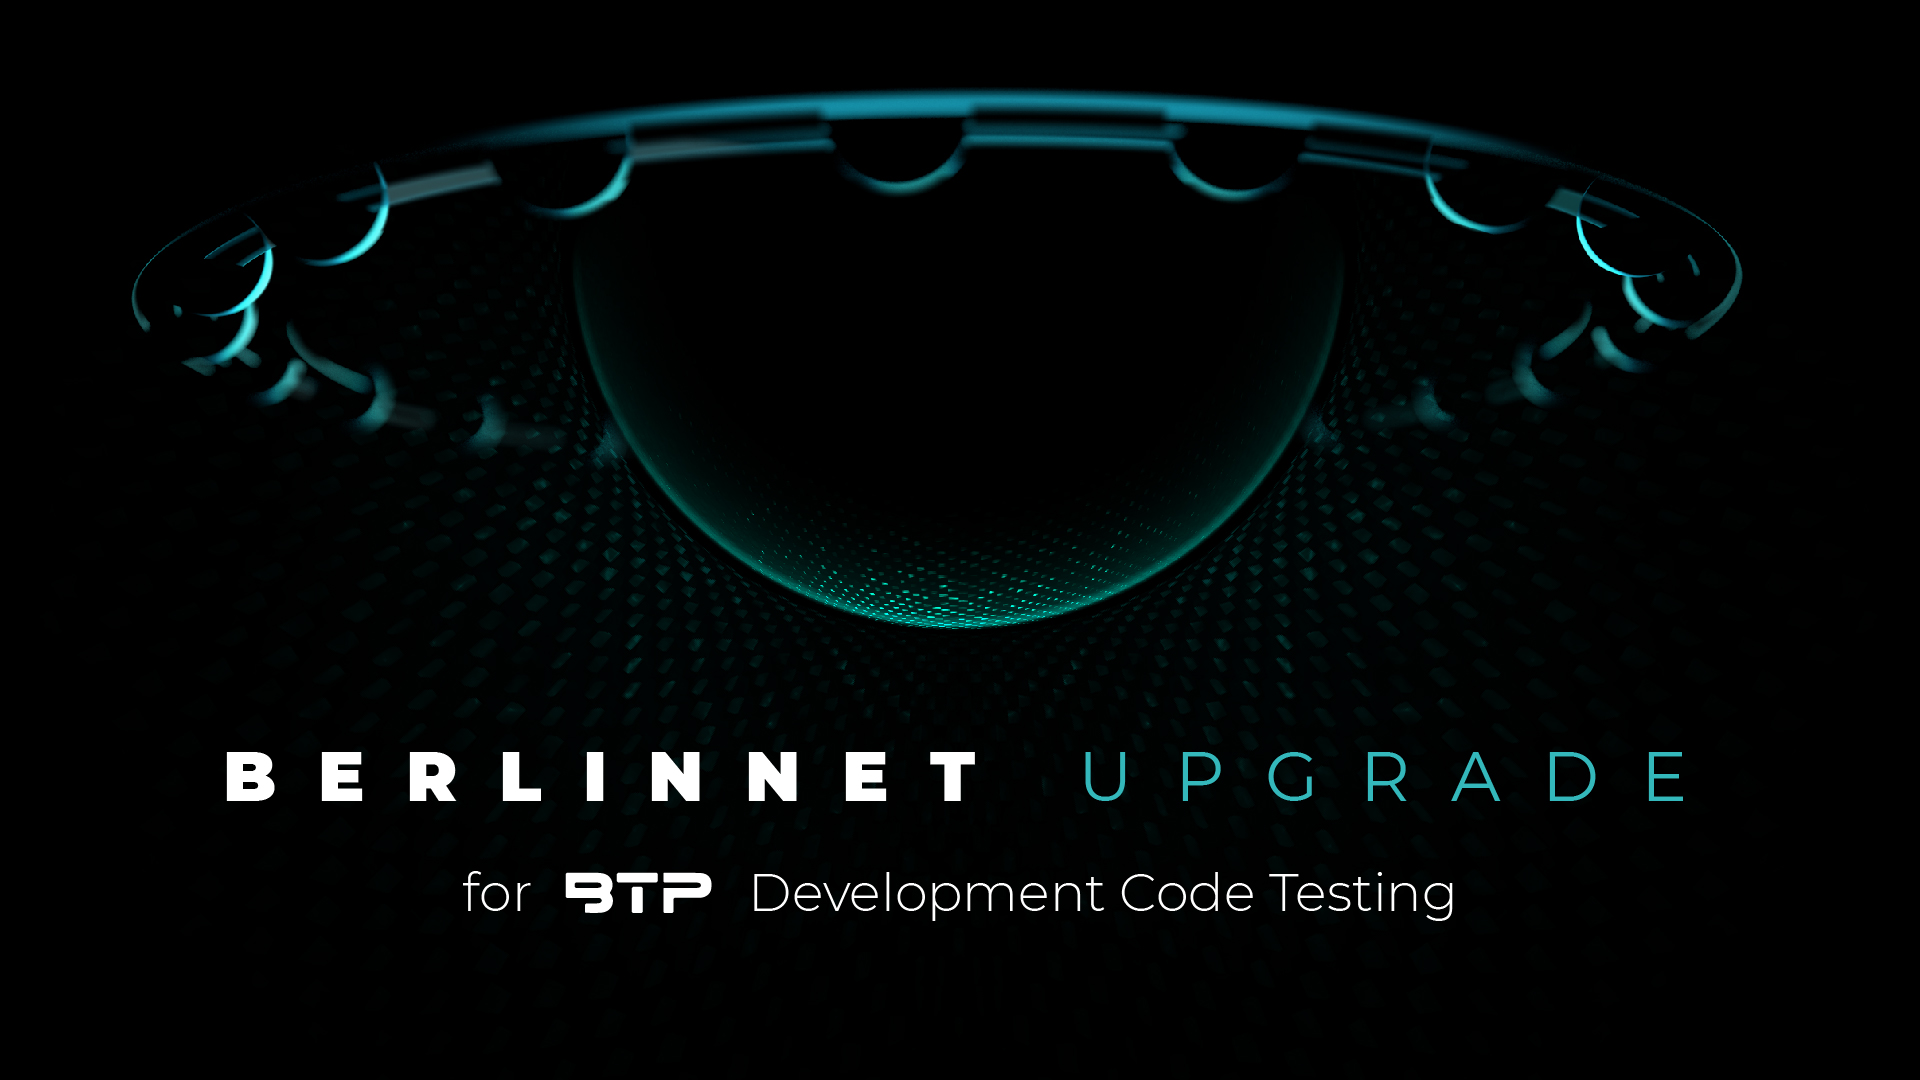
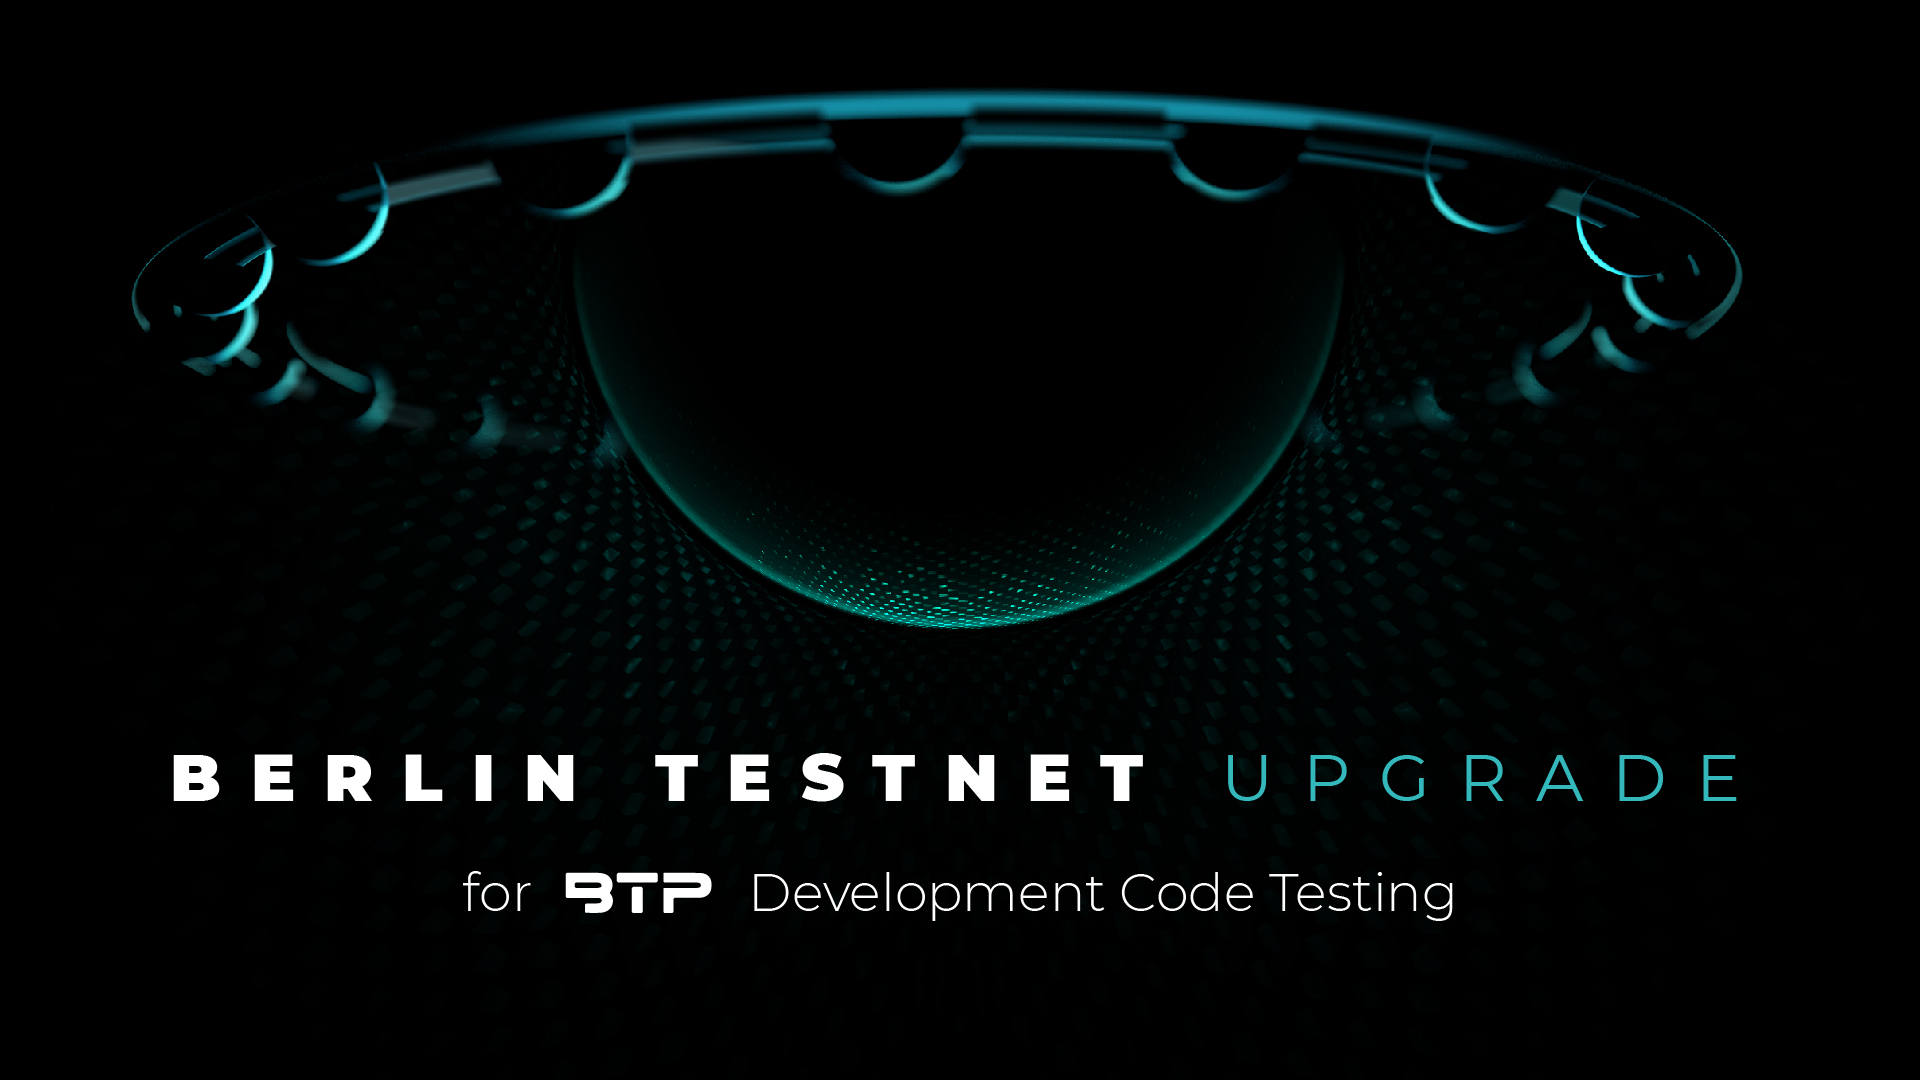
update to blog wording
^

Changed region(s): [[0.0625, 0.6722, 0.9062, 0.7639]]

diff --git a/content/blog/2022/2022-10-27-berlin-net-to-upgrade/index.md b/content/blog/2022/2022-10-27-berlin-net-to-upgrade/index.md
@@ -1,11 +1,11 @@
 ---
-title: BerlinNet to Upgrade for BTP Development Code Testing 
+title: Berlin Testnet to Upgrade for BTP Development Code Testing 
 date: 2022-10-27
-slug: BerlinNet-to-Upgrade-for-BTP-Development-Code-Testing
+slug: Berlin-Testnet-to-Upgrade-for-BTP-Development-Code-Testing
 description: The Berlin Testnet will be upgraded on November 2nd (KST), the first update since BerlinNet’s launch in December, 2020. 
 ---
 
-The Berlin Testnet will be upgraded on November 2nd (KST), the first update since BerlinNet’s launch in December, 2020. Consequently, the Testnet will experience an outage of approximately 1 hour as the team prepares for BTP development code to be merged onto BerlinNet for testing.
+The Berlin Testnet will be upgraded on November 2nd (KST), the first update since its launch in December, 2020. Consequently, the Testnet will experience an outage of approximately 1 hour as the team prepares for BTP development code to be merged onto BerlinNet for testing.
 
 The Berlin Testnet will also be reset as a result of a previously patched bug associated with allowing overdraft transactions. Apps currently maintaining a testnet environment on Berlin will need to redeploy their environment after the reset. Additionally, we encourage app developers to use the Lisbon testnet for a more stable testing environment.
 
